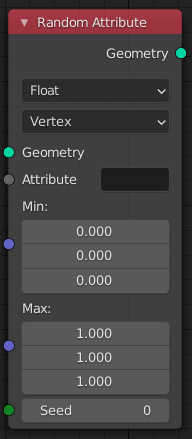
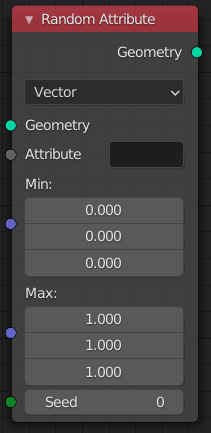
Geometry Nodes: Random Attribute - remove domain
Domain is not yet exposed to the UI.

diff --git a/manual/modeling/modifiers/nodes/attribute/random_attribute.rst b/manual/modeling/modifiers/nodes/attribute/random_attribute.rst
@@ -39,16 +39,6 @@ Type
    Vector
       Array of 3 (floating point) values.
 
-Domain
-   Geometry component that will store the attribute (Vertex, Point)
-
-   Vertex
-      Store the attribute in the mesh vertices.
-
-   Point
-      Store the attribute in the points of point clouds.
-
-
 Outputs
 =======
 
